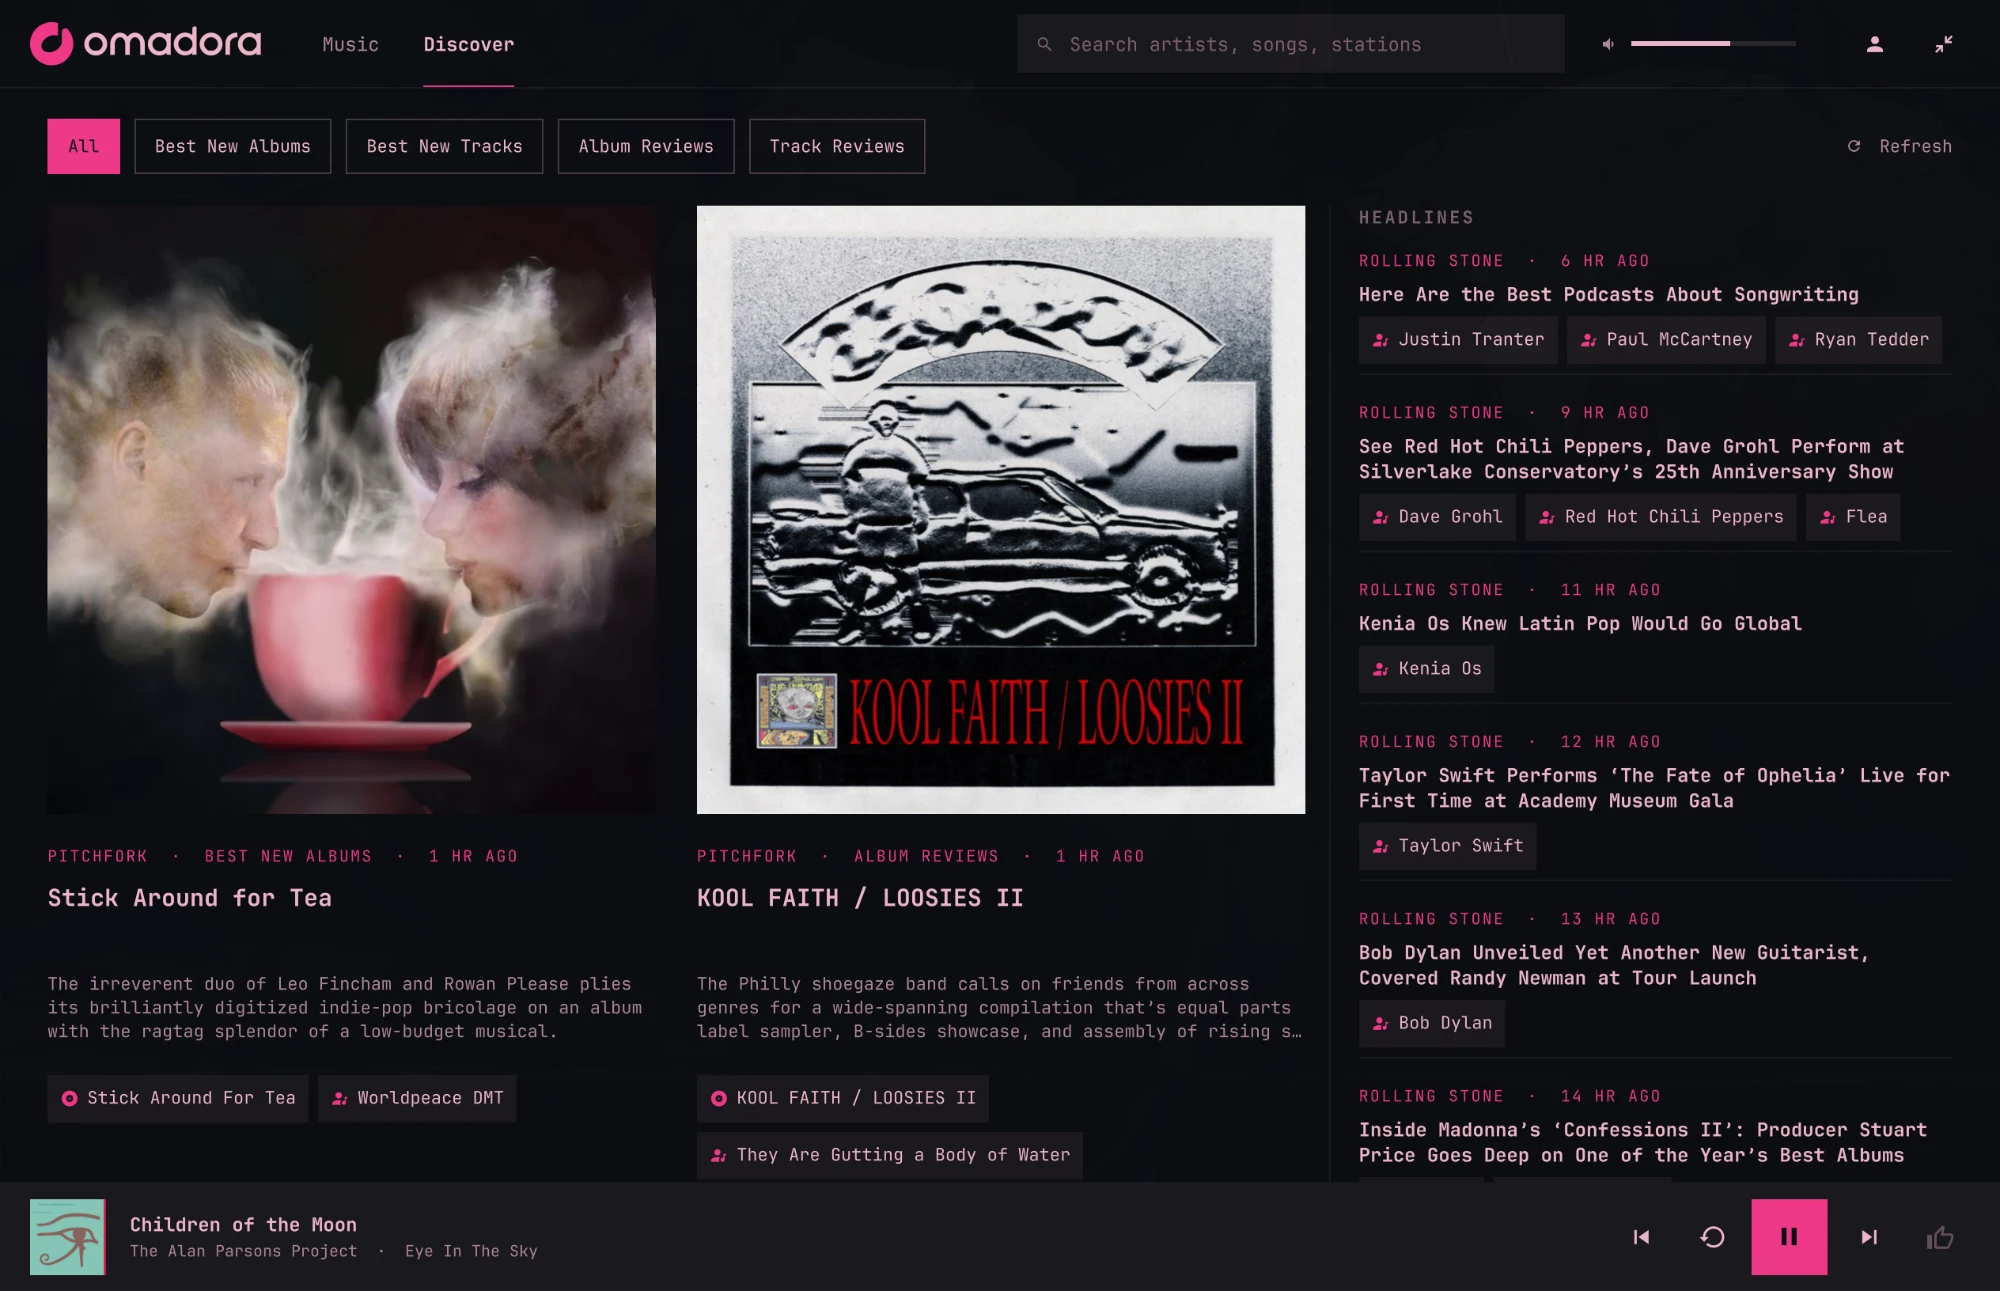
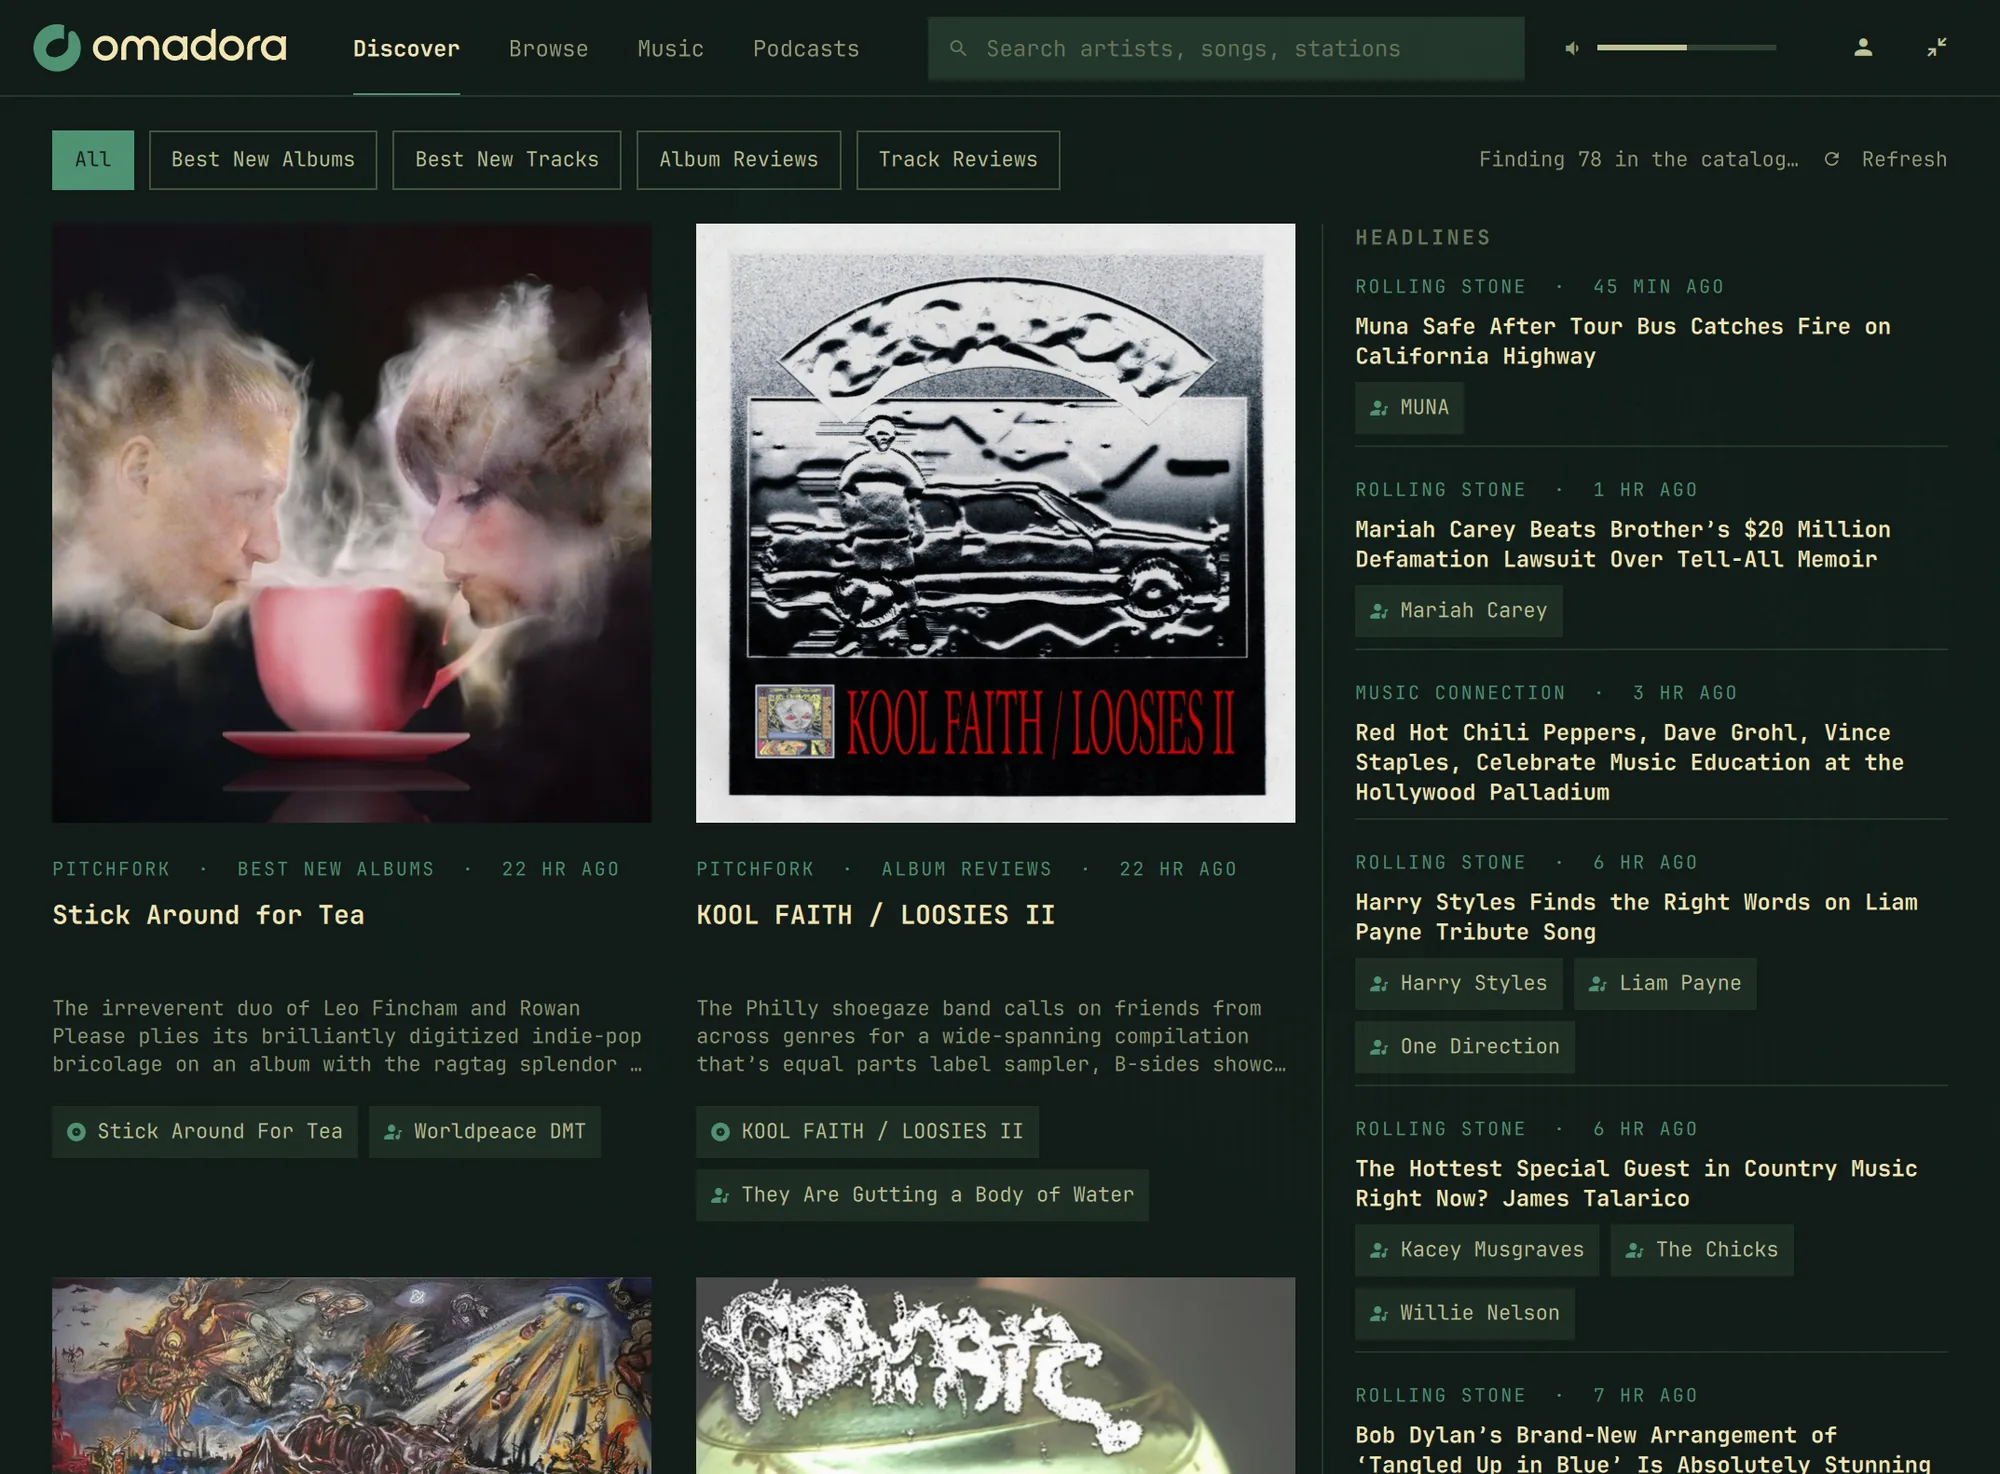
docs: screenshots of Discover, Browse, Music, Podcasts, and the mini player

diff --git a/README.md b/README.md
@@ -8,14 +8,15 @@ Pandora in the Omarchy bar.
 > and it needs your own Pandora account. Pandora is a trademark of Pandora
 > Media, LLC; the Omadora lettering is a nod to its wordmark.
 
-![Omadora on an Omarchy desktop: the mini player under the bar, and the full player as a window](docs/desktop.webp)
+![Discover: Pitchfork reviews as cards, headlines down the side](docs/discover.webp)
 
 <p>
-  <img src="docs/music.webp" width="49%" alt="The full player: stations, the track playing, and history">
-  <img src="docs/discover.webp" width="49%" alt="Discover: Pitchfork reviews as cards, Rolling Stone headlines down the side">
+  <img src="docs/browse.webp" width="32%" alt="Browse: artists picked for you, new music, and genres">
+  <img src="docs/music.webp" width="32%" alt="Music: your stations, playlists, and artists">
+  <img src="docs/podcasts.webp" width="32%" alt="Podcasts: your shows, trending shows, and new episodes">
 </p>
 
-<p align="center"><img src="docs/widget.png" width="410" alt="The mini player, opened from the bar"></p>
+<p align="center"><img src="docs/widget.png" width="385" alt="The mini player, opened from the bar"></p>
 
 The bar shows the Omadora mark. Left-click it for the mini player (art, progress, transport), or, with nothing playing, the full player. The expand control opens the full player as a regular window that Hyprland tiles like any other app. Its header has four places: Discover (where it opens), Browse, Music (your stations, playlists, and artists), and Podcasts. Each keeps its own pages, so going back to one finds you where you left it; choosing the one you're in takes you back to its start. What's playing is in a strip along the bottom; click it for the track itself, with up next, history, and AI beside it. The collapse control closes it. Colors come from the active Omarchy theme.
 
